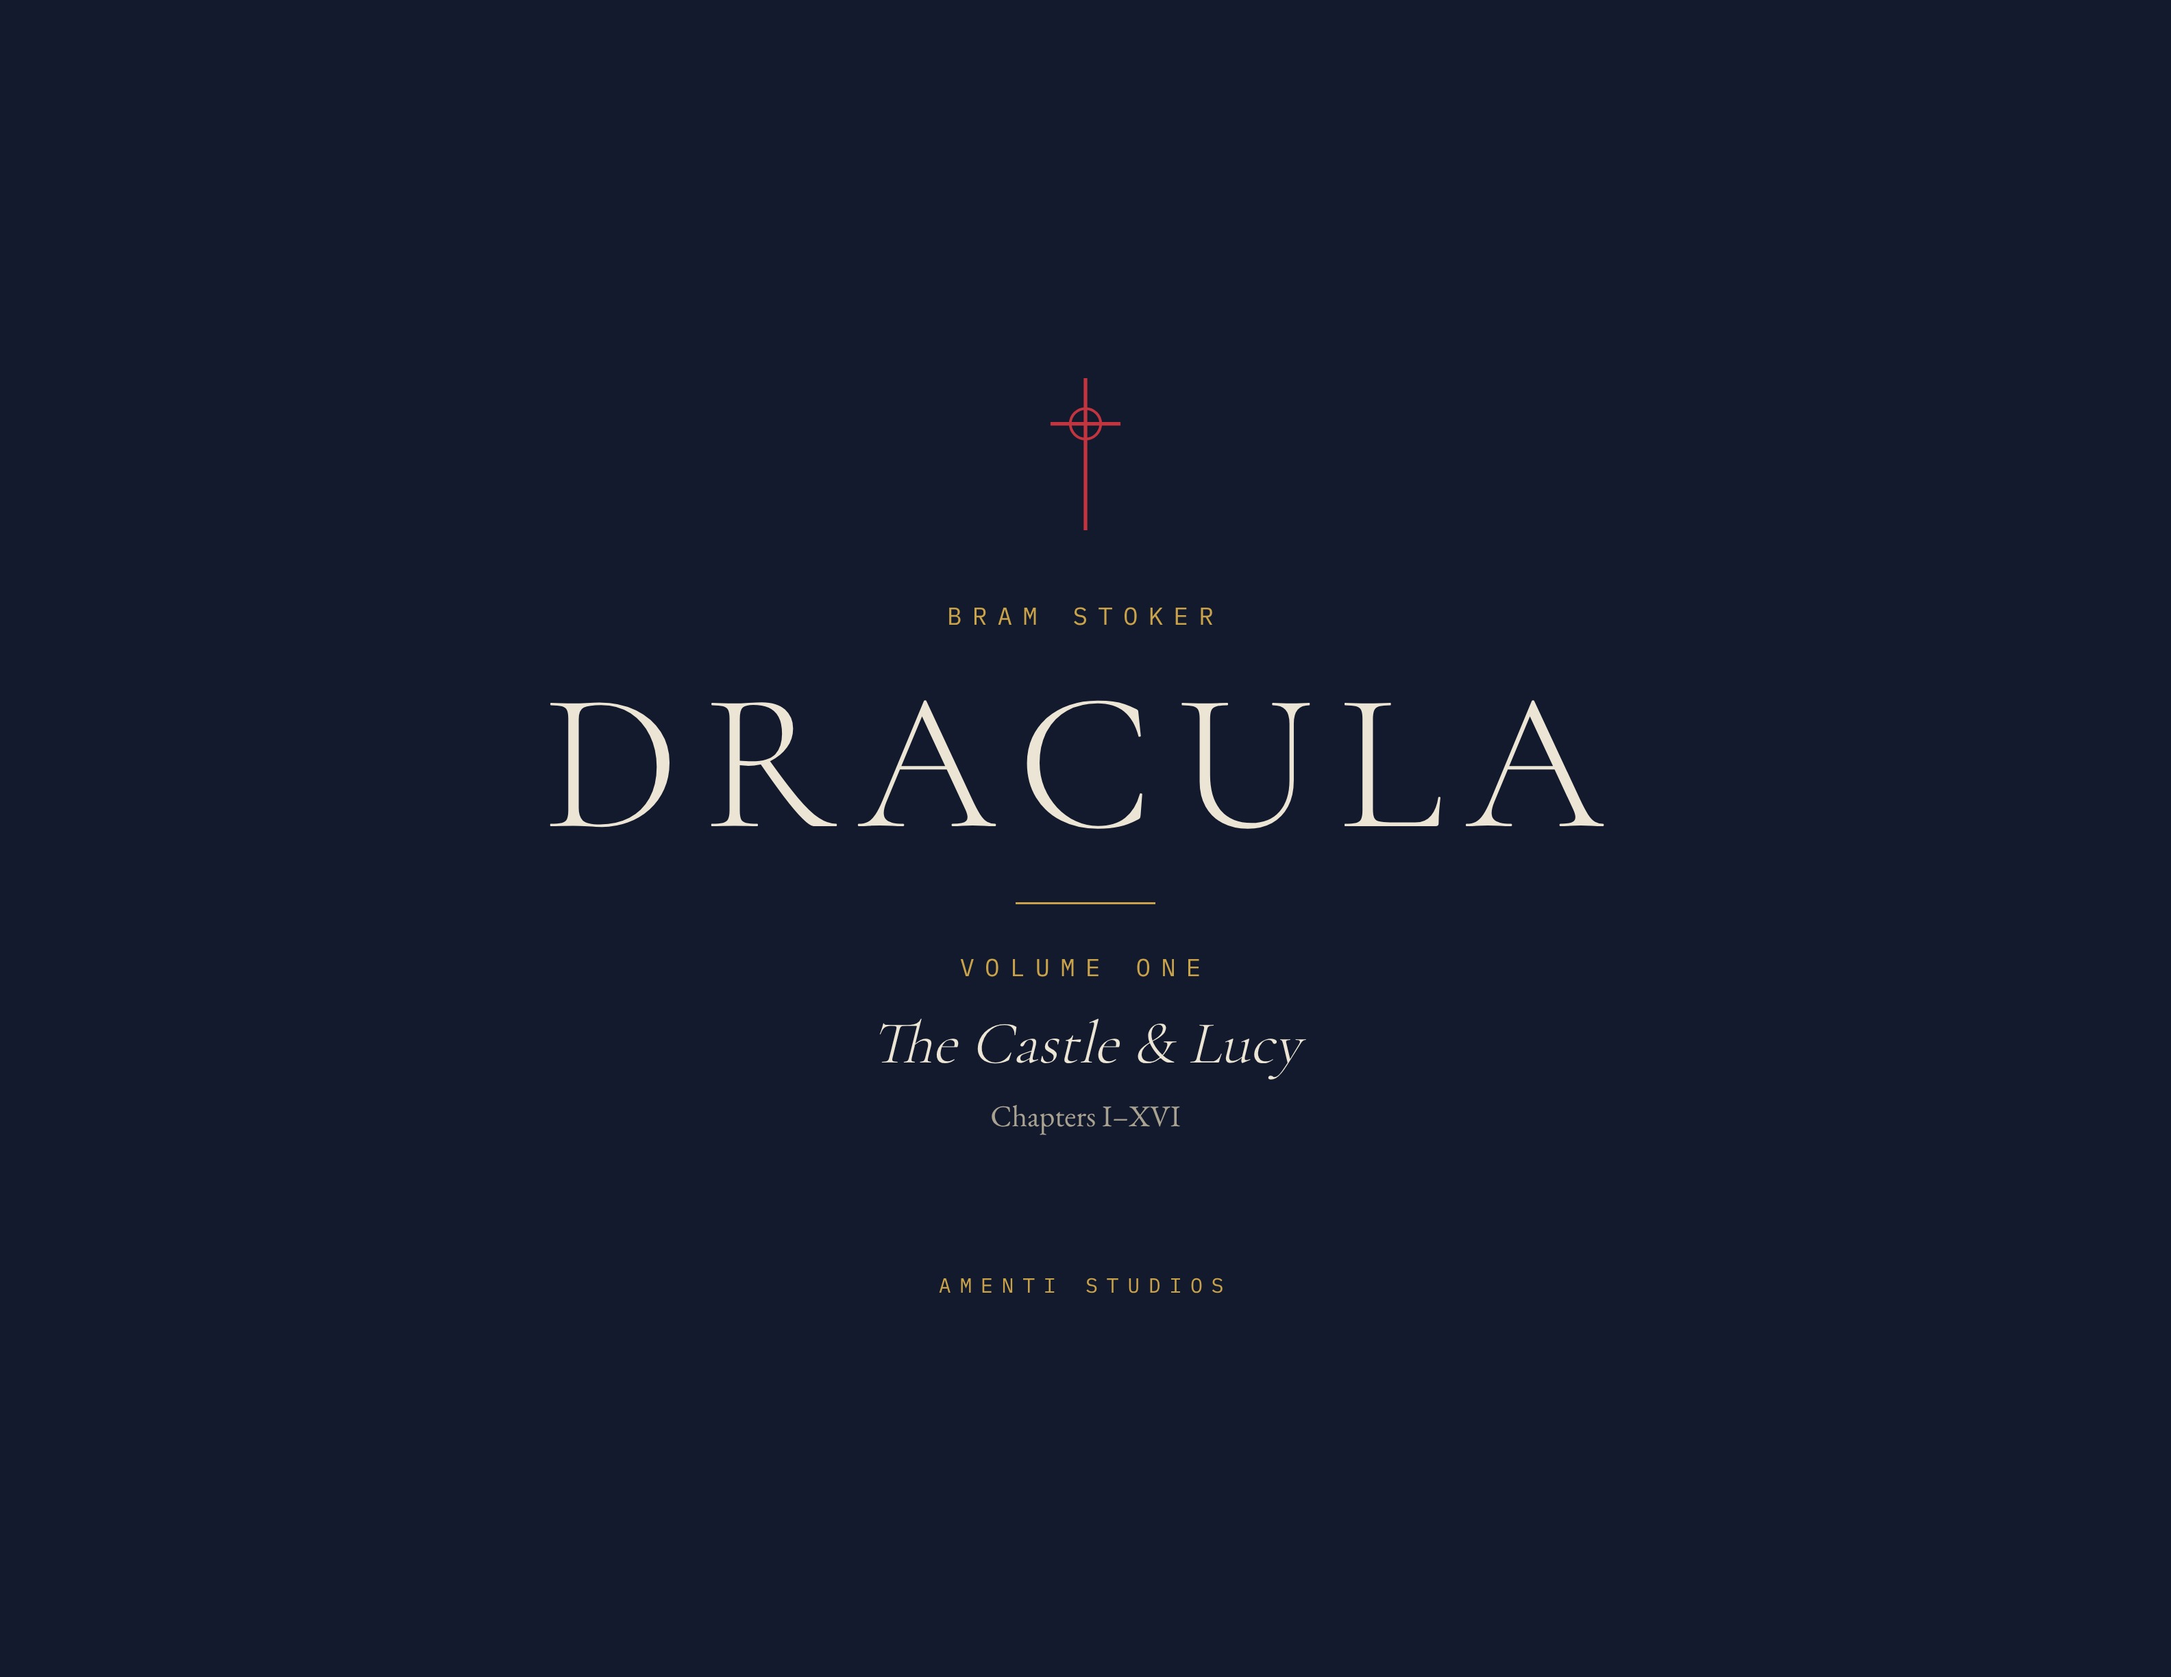
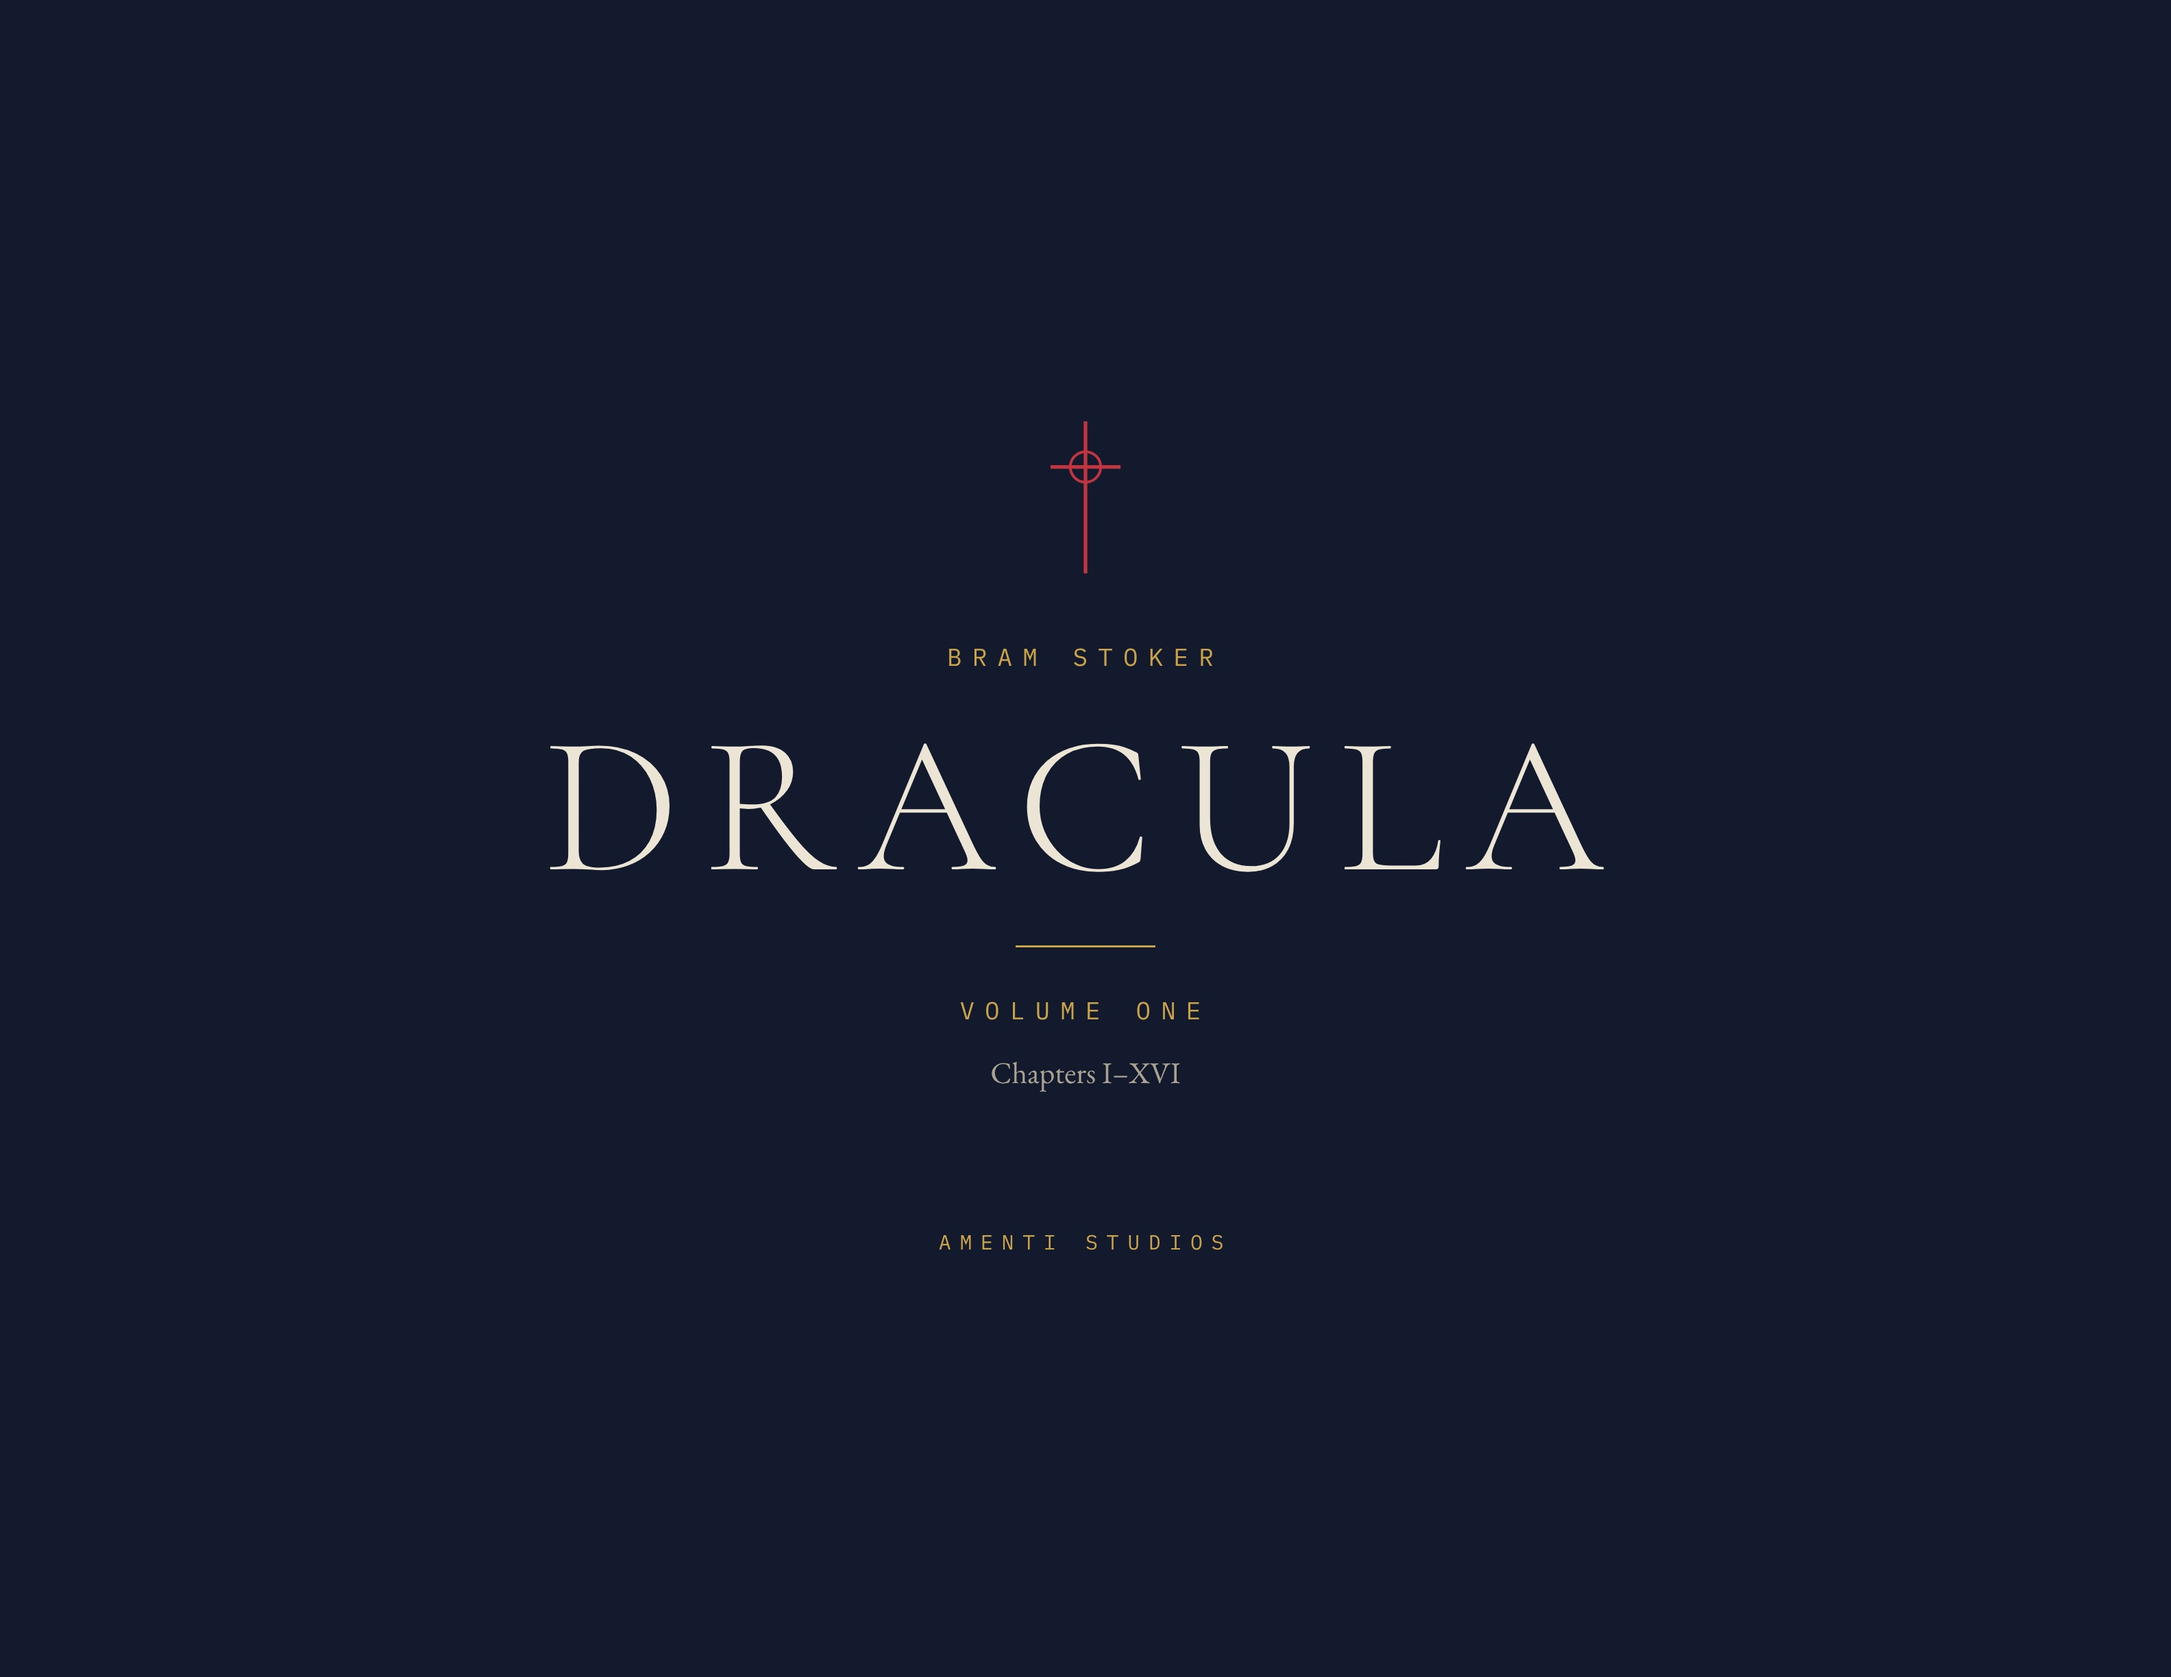
Volume One title page: drop the subtitle line
Claude-Session: https://claude.ai/code/session_013VwDP7mPLrP4eYudhxc4u4

diff --git a/dracula/books/volume-1/print/title.html b/dracula/books/volume-1/print/title.html
@@ -10,7 +10,6 @@ body{margin:0}.pg{width:11in;height:8.5in;background:#141a2e;color:#ece4d4;displ
 <div style="font:300 72pt/1 C;letter-spacing:.12em;margin:.18in 0 .2in">DRACULA</div>
 <div style="width:.7in;height:1px;background:#c9a24a"></div>
 <div class="k" style="margin-top:.24in">Volume One</div>
-<div style="font:italic 300 22pt C;margin-top:.12in">The Castle &amp; Lucy</div>
-<div style="font:11pt G;color:#a9a293;margin-top:.08in">Chapters I–XVI</div>
+<div style="font:11pt G;color:#a9a293;margin-top:.14in">Chapters I–XVI</div>
 <div class="k" style="margin-top:.7in;font-size:7.5pt">Amenti Studios</div>
 </div><script>document.fonts.ready.then(()=>document.title='done')</script></body></html>
